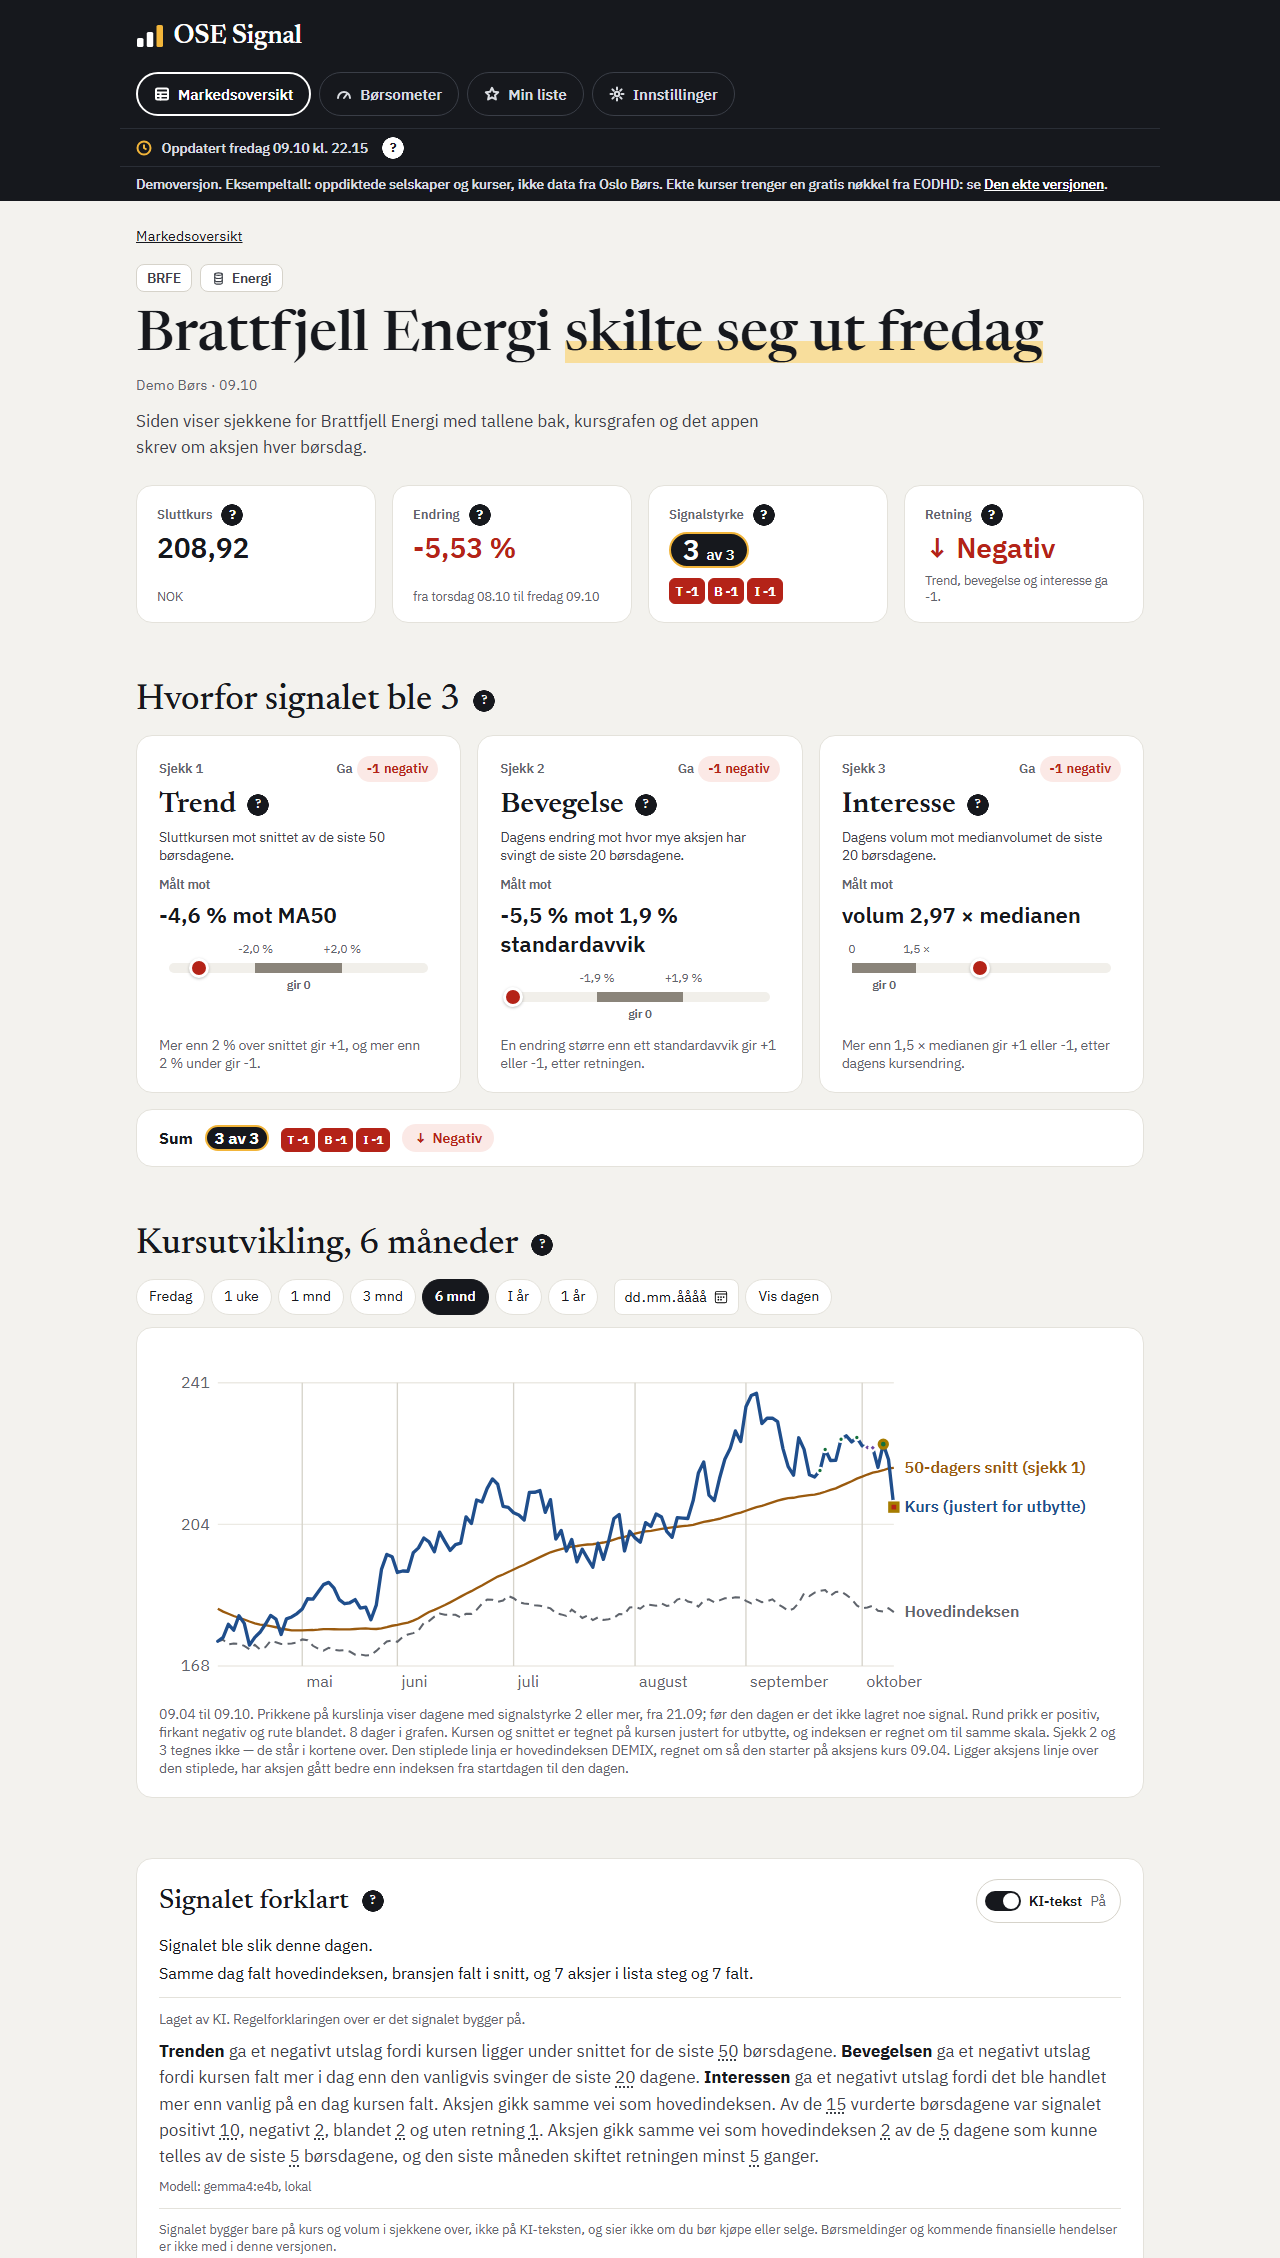
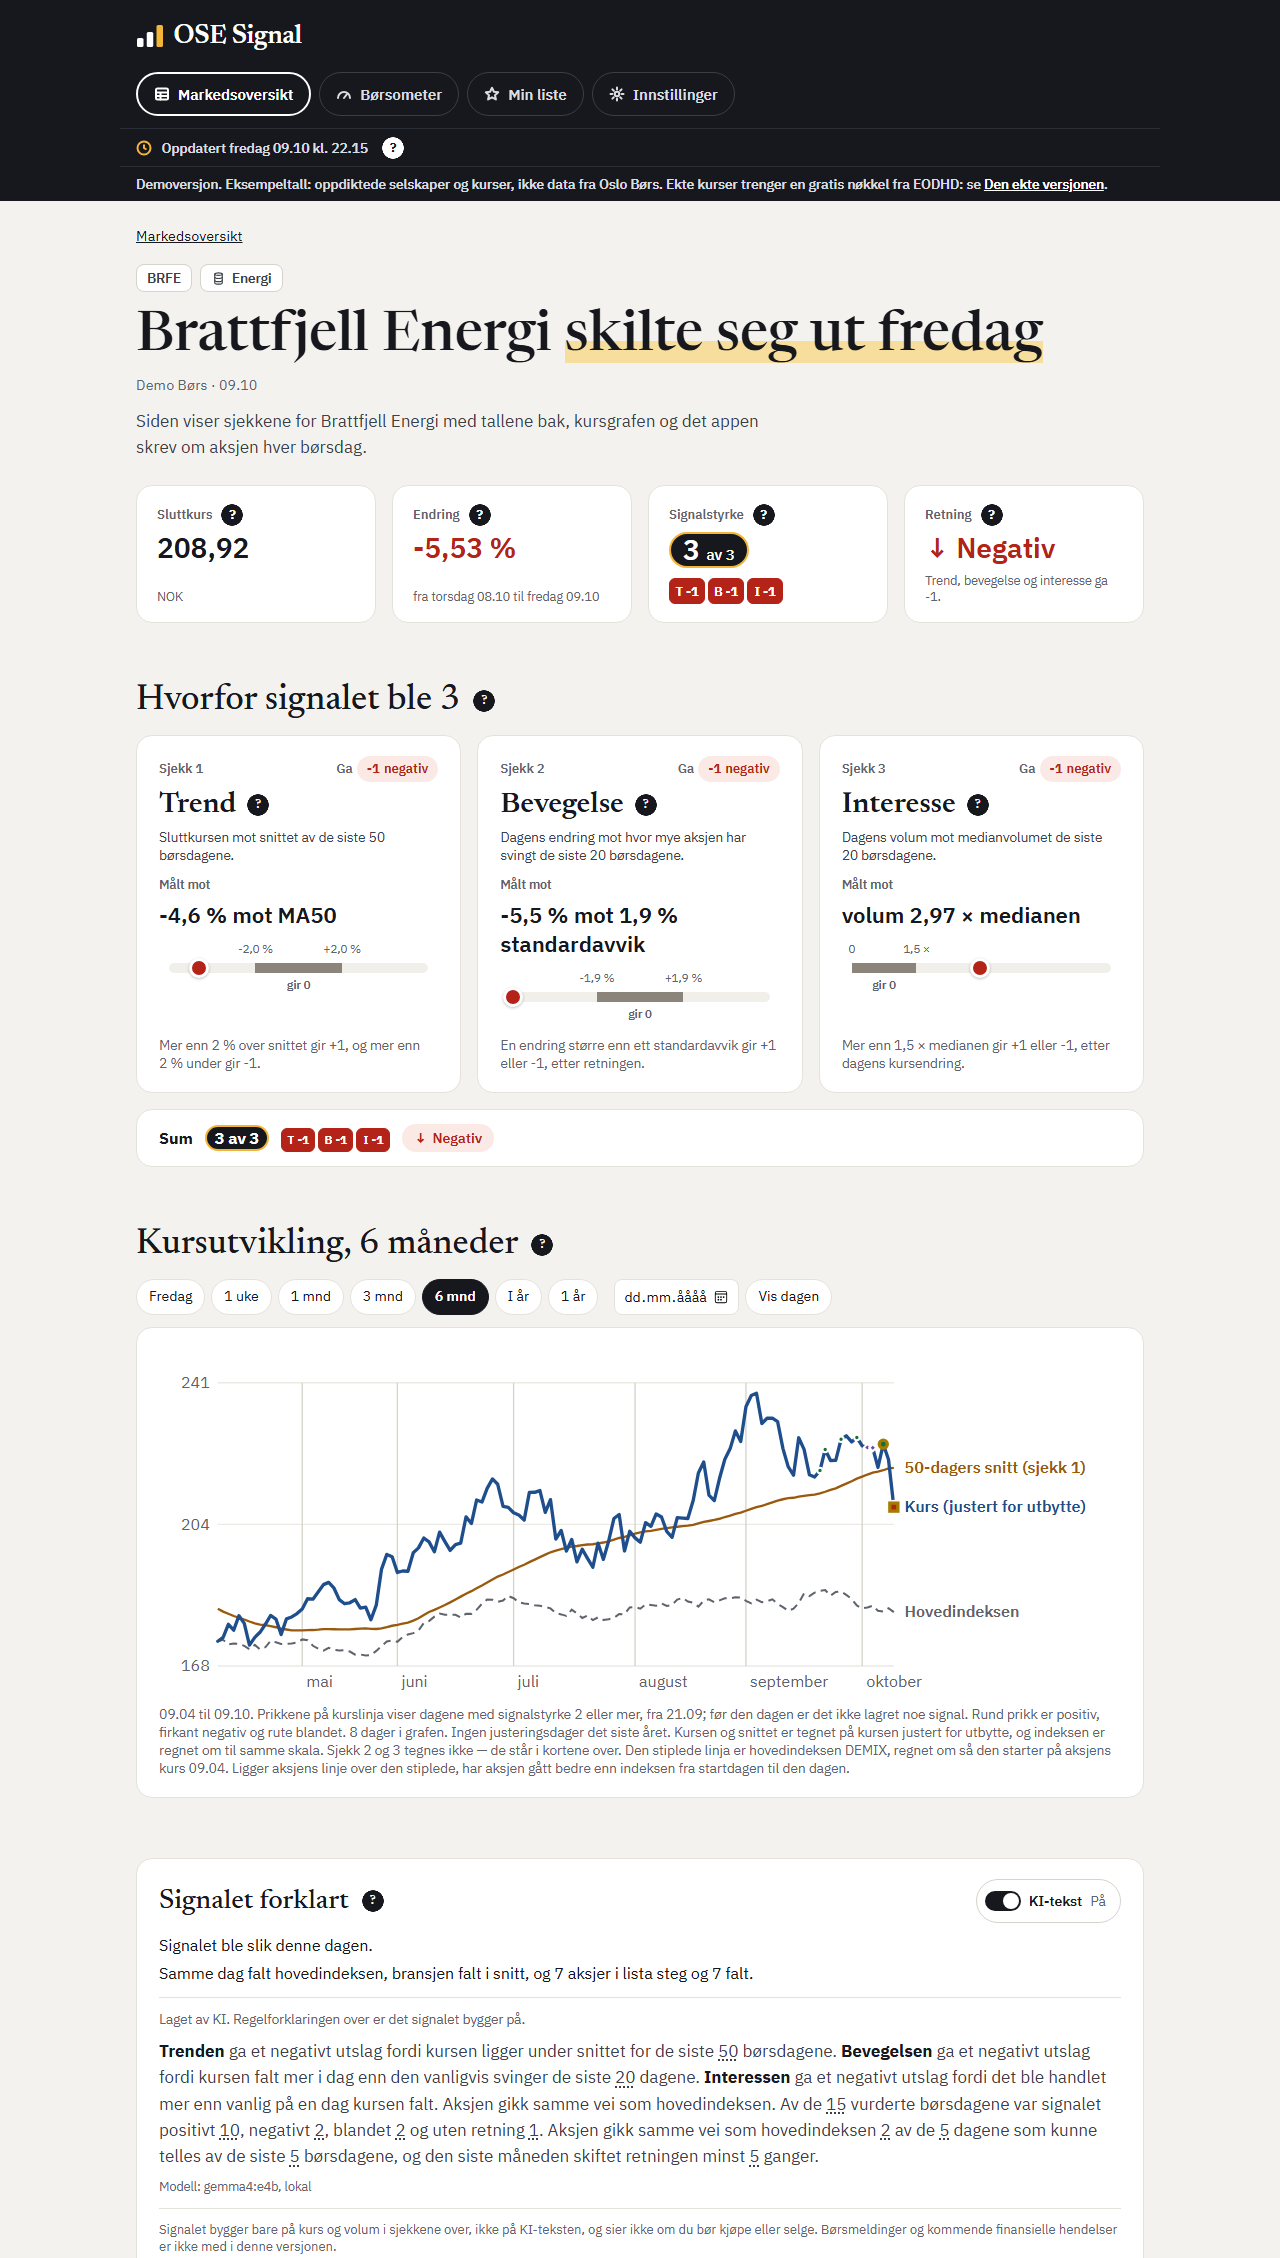
Story 2.6 og 8.14: bildet av aksjesiden og avtrykkene på nytt

Changed region(s): [[0.125, 0.744, 0.8438, 0.806]]

diff --git a/tests/test_docker.py b/tests/test_docker.py
@@ -993,6 +993,8 @@ OPPSETT_PILA = "Slik er testene satt opp: ingen nettkall, ingen ekte data og CI 
 MALENE_BAK_BILDET = (
     "src/demo.py",
     "src/markedsoversikt.py",
+    # Story 2.6 og 8.14: justeringsdagene, som markedsoversikt.py importerer.
+    "src/justeringsdager.py",
     "src/oversiktsdata.py",
     "src/hovedindeks.py",
     "src/tallformat.py",
@@ -1274,7 +1276,9 @@ HOEYDE_PAA_BILDET = 1864
 # tatt paa nytt med DevTools-protokollen og er byte for byte de samme.
 # Flettingen av 8.10 (med 2.12 og main) inn i 8.10b: avtrykkene er regnet ut paa nytt. Alle
 # bildene ble tatt paa nytt og er byte for byte de samme.
[1 lines of base64/hex data omitted]
+# Story 2.6 og 8.14: justeringsdagene i oversikten, på aksjesiden og i grafen
+# Story 2.6 og 8.14: justeringsdagene i oversikten, på aksjesiden og i grafen
[1 lines of base64/hex data omitted]
 SLIK_TAS_BILDET = (
     "Oversikten er endret, så skjermbildet viser noe annet enn demoen. Ta "
     f"{SKJERMBILDET} på nytt etter «Bildet» i spesifikasjonen 3.3b: demobasen i en "
@@ -1298,6 +1302,8 @@ FILENE_BAK_AKSJESIDEN = (
     "src/app.py",
     "src/aksjedetalj.py",
     "src/graf.py",
+    # Story 2.6 og 8.14: justeringsdagene i kortet og grafen.
+    "src/justeringsdager.py",
     "src/perioder.py",
     "src/ki_visning.py",
     "src/kilogg.py",
@@ -1679,7 +1685,7 @@ HOEYDE_PAA_AKSJESIDEN = 2258
 # tatt paa nytt med DevTools-protokollen og er byte for byte de samme.
 # Flettingen av 8.10 (med 2.12 og main) inn i 8.10b: avtrykkene er regnet ut paa nytt. Alle
 # bildene ble tatt paa nytt og er byte for byte de samme.
[2 lines of base64/hex data omitted]
 SLIK_TAS_AKSJESIDEN = (
     "Aksjesiden er endret, så bildet av den viser noe annet enn demoen. Ta "
     f"{AKSJESIDEBILDET} på nytt med fremgangsmåten i spesifikasjonen 3.3b, mot /aksje/BRFE: "
@@ -1816,13 +1822,13 @@ DE_NYE_BILDENE = {
 # Flettingen av 8.10 (med 2.12 og main) inn i 8.10b: avtrykkene er regnet ut paa nytt. Alle
 # bildene ble tatt paa nytt og er byte for byte de samme.
 AVTRYKK_BAK_DE_NYE_BILDENE = {
[14 lines of base64/hex data omitted]
 }
 SLIK_TAS_DE_NYE_BILDENE = (
     "Siden bak {bildet} er endret, så bildet viser noe annet enn demoen. Ta det på nytt som "
